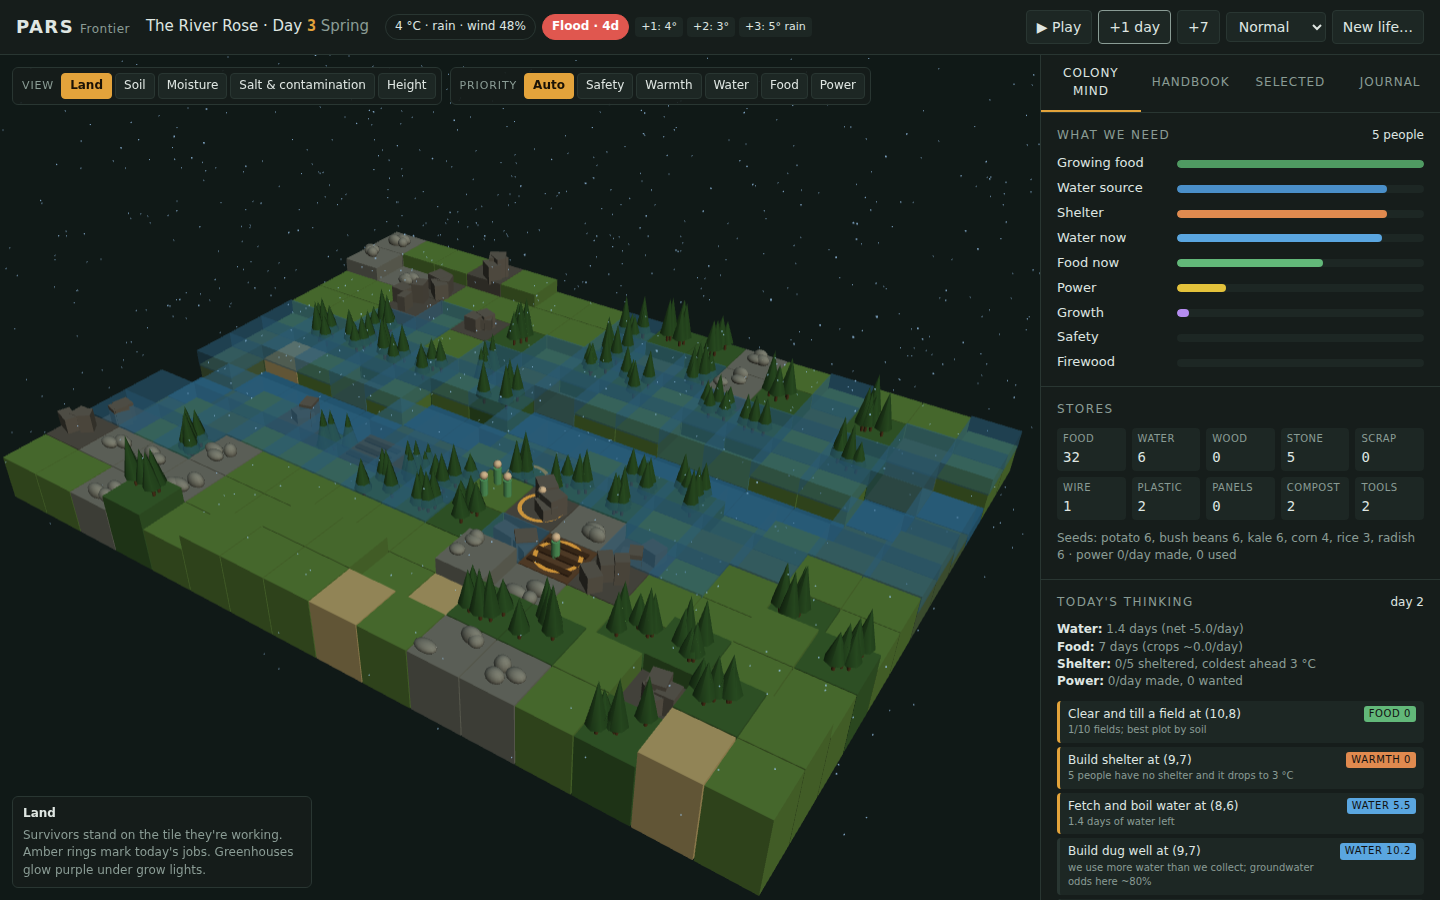
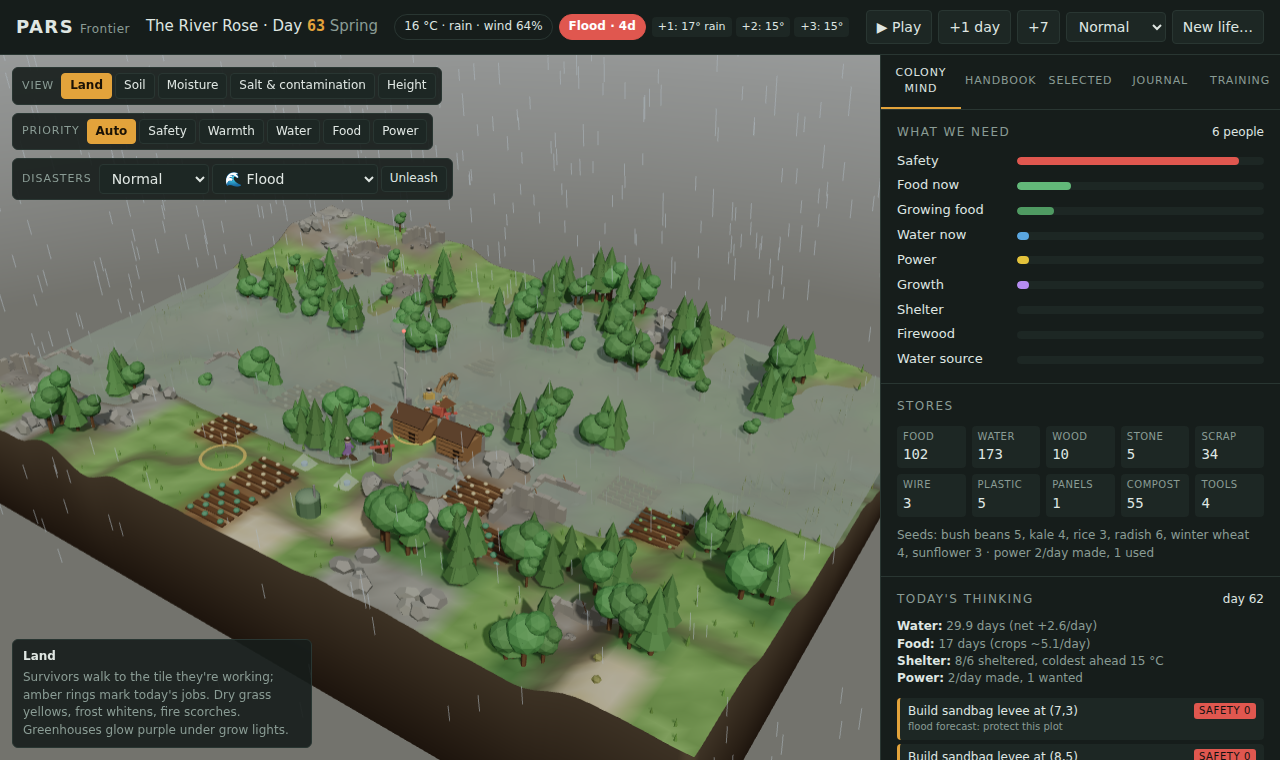
Frontier: learn from flood damage, separate "wrong" from "untested"
- Crops that wilt in floodwater (not only ones that drown) now teach the
  colony they aren't flood-tolerant. In 7 of 12 River Rose games beans were
  flooded and survived damaged; before, the colony learned nothing from it.
  Paired A/B vs. the previous commit: -0.24 +/- 0.25 points/year over 200
  games (neutral).
- Accuracy now marks each fact as tested only when the colony had evidence
  that could reveal it (temperatures below the limit, a flood over the crop,
  enough wells/catches for the tolerance to be reachable, a lesson's trigger).
  Of tested facts 88-100% are right after one year; most facts stay
  untested within a year because the event never happened.
- Forage truth in the metric uses whole portions (what a day actually
  brings in) and allows for sand anywhere, not only in the desert.
- Handbook panel shows untested facts as "?" instead of errors.
- New README screenshots of the 3D scene.

Claude-Session: https://claude.ai/code/session_019JzwvXus7sFHV1iJCwQFP5

diff --git a/pars/web/static/frontier-engine.js b/pars/web/static/frontier-engine.js
@@ -244,6 +244,7 @@
       if (this.sc.opening) {
         const o = this.sc.opening;
         this.disaster = { type: o.type, daysLeft: o.days, level: o.level || 2 };
+        this.lived = { [o.type]: true };
         this.note("event", `${DISASTERS[o.type].name}: ${DISASTERS[o.type].desc}`);
       }
       this.dirtyWaterDay = -99;
@@ -352,6 +353,7 @@
     startDisaster(type, forced = false) {
       const d = DISASTERS[type];
       this.disaster = { type, daysLeft: this.R.randint(d.days[0], d.days[1]), level: this.R.randint(1, 3), forced, startDay: this.day };
+      (this.lived = this.lived || {})[type] = true;
       this.note("event", `${d.name} begins: ${d.desc}`);
       if (type === "earthquake") this.quake(1);
       if (type === "wildfire") {
@@ -551,12 +553,17 @@
         const truth = CROPS[crop.type], belief = this.beliefs.crops[crop.type];
         const temp = this.cropTemp(t, w.temp);
         crop.age++;
+        // what this crop has been exposed to (to tell "untested" from "wrong")
+        belief.lowT = Math.min(belief.lowT ?? 99, temp);
+        if (t.flood > 0) belief.wet = true;
         // frost kill
         if (temp <= truth.frostKill) { this.cropDies(t, "frost", temp); continue; }
         // drowning
         if (t.flood > 0 && !truth.flood) {
           crop.health -= 0.25 * t.flood;
           if (crop.health <= 0) { this.cropDies(t, "flood"); continue; }
+          // it doesn't have to die for us to see it suffering
+          if (belief.flood && crop.health < 0.6) { belief.flood = false; this.learn(crop.type, `${truth.name} wilts in standing floodwater (the handbook was wrong).`); }
         }
         if (t.flood > 0 && truth.flood && belief.flood !== true) { belief.flood = true; this.learn(crop.type, `${truth.name} survived standing floodwater.`); }
         const light = (t.lights && t.powered) ? 1 : (t.greenhouse ? 0.9 : 1) * clamp(w.sun * 1.3, 0.15, 1);
@@ -1149,32 +1156,42 @@
     }
     knowledgeAccuracy() {
       const facts = [];
-      const fact = (group, name, ok, belief, truth) => facts.push({ group, name, ok: !!ok, belief, truth });
+      // "tested": the colony has had some experience that bears on the fact
+      // (planted the crop, dug at that height, lived through the disaster);
+      // an untested fact can only be right if the handbook happened to be
+      const fact = (group, name, ok, belief, truth, tested) => facts.push({ group, name, ok: !!ok, belief, truth, tested: !!tested });
+      const lived = this.lived || {};
       // crops the colony has or has grown
       for (const [id, b] of Object.entries(this.beliefs.crops)) {
         if (!((this.seeds[id] || 0) > 0 || b.planted)) continue;
         const t = CROPS[id];
-        fact("crops", `${t.name}: grows above`, Math.abs(b.minT - t.minT) <= 1, `${b.minT} °C`, `${t.minT} °C`);
-        fact("crops", `${t.name}: frost kills at`, Math.abs(b.frostKill - t.frostKill) <= 1.5, `${b.frostKill} °C`, `${t.frostKill} °C`);
-        fact("crops", `${t.name}: survives floods`, b.flood === t.flood, b.flood ? "yes" : "no", t.flood ? "yes" : "no");
+        fact("crops", `${t.name}: grows above`, Math.abs(b.minT - t.minT) <= 1, `${b.minT} °C`, `${t.minT} °C`, (b.lowT ?? 99) < t.minT);
+        fact("crops", `${t.name}: frost kills at`, Math.abs(b.frostKill - t.frostKill) <= 1.5, `${b.frostKill} °C`, `${t.frostKill} °C`, (b.lowT ?? 99) <= Math.max(t.frostKill, b.frostKill));
+        fact("crops", `${t.name}: survives floods`, b.flood === t.flood, b.flood ? "yes" : "no", t.flood ? "yes" : "no", b.wet);
       }
       // wells at the heights that exist here
       if (!this.sc.terrain.sterile) {
         const elevs = [...new Set(this.tiles.filter((t) => this.isLand(t)).map((t) => t.elev))].sort();
         for (const e of elevs) {
           const w = this.beliefs.tech.well.byElev[e], bel = w.ok / (w.ok + w.fail), tru = this.trueWellChance(e);
-          fact("wells", `Well at height ${e} strikes water`, Math.abs(bel - tru) <= 0.15, `${Math.round(bel * 100)}%`, `${Math.round(tru * 100)}%`);
+          const r = this.beliefs.tech.well.real;
+          fact("wells", `Well at height ${e} strikes water`, Math.abs(bel - tru) <= 0.15, `${Math.round(bel * 100)}%`, `${Math.round(tru * 100)}%`, r && r[e].ok + r[e].fail >= 4);
         }
       }
       // gathering yields that apply here
       const Y = this.beliefs.yields;
-      const yf = (key, truth, tol) => fact("yields", YIELD_LABEL[key], Math.abs(Y[key].m - truth) <= tol, Y[key].m.toFixed(2), truth.toFixed(2));
+      // enough tries that an honest average would land within the tolerance
+      const enough = (key, truth, tol) => { const y = Y[key], n = y.seen || 0; if (n < 2) return false;
+        const v = truth < 1 ? truth * (1 - truth) : (y.M2 || 0) / (n - 1); return 2 * Math.sqrt(v / n) <= tol; };
+      const yf = (key, truth, tol) => fact("yields", YIELD_LABEL[key], Math.abs(Y[key].m - truth) <= tol, Y[key].m.toFixed(2), truth.toFixed(2), enough(key, truth, tol));
       if (!this.sc.noWildFood) {
-        // in the desert the nearest spot may be sand (half yield) or oasis grass
-        const lo = this.scenarioId === "dry_country" ? 0.5 : 1;
-        for (const [sea, base] of [["Spring", 2.5], ["Summer", 2.5], ["Autumn", 4], ["Winter", 1]]) {
-          const m = Y[`forage_${sea}`].m, tol = Math.max(0.5, base * 0.25);
-          fact("yields", YIELD_LABEL[`forage_${sea}`], m >= base * lo - tol && m <= base + tol, m.toFixed(2), lo < 1 ? `${(base * lo).toFixed(2)}–${base.toFixed(2)}` : base.toFixed(2));
+        // where there's sand the nearest spot may be sand (half yield) or grass
+        const lo = this.tiles.some((t) => t.type === "sand") ? 0.5 : 1;
+        // what a day's foraging actually brings in (whole portions) at skill 1
+        for (const [sea, raw] of [["Spring", 2.5], ["Summer", 2.5], ["Autumn", 4], ["Winter", 1]]) {
+          const hi = Math.round(raw), low = lo < 1 ? Math.round(raw * lo) : hi;
+          const m = Y[`forage_${sea}`].m, tol = Math.max(0.5, hi * 0.25);
+          fact("yields", YIELD_LABEL[`forage_${sea}`], m >= low - tol && m <= hi + tol, m.toFixed(2), low < hi ? `${low.toFixed(2)}–${hi.toFixed(2)}` : hi.toFixed(2), enough(`forage_${sea}`, hi, tol));
         }
       }
       if (this.sc.terrain.river) yf("fish_river", 2, 0.5);
@@ -1186,10 +1203,11 @@
       // disaster lessons for disasters that can strike here
       const LES = { boilWater: "outbreak", fireAware: "wildfire", quakeWait: "earthquake", mixCrops: "blight", ashFertile: "wildfire" };
       const LNAME = { boilWater: "Unboiled water spreads fever", fireAware: "Firebreaks before dry season", quakeWait: "Wait out aftershocks", mixCrops: "Mix crops against blight", ashFertile: "Ash makes soil fertile" };
-      for (const [k, d] of Object.entries(LES)) if (d in this.sc.disasters && this.canHappen(d)) fact("lessons", LNAME[k], this.beliefs.hazard[k], this.beliefs.hazard[k] ? "known" : "not yet", "true");
-      if (this.sc.terrain.river) fact("lessons", "Flood silt is fertile", this.discoveries.silt, this.discoveries.silt ? "known" : "not yet", "true");
+      for (const [k, d] of Object.entries(LES)) if (d in this.sc.disasters && this.canHappen(d)) fact("lessons", LNAME[k], this.beliefs.hazard[k], this.beliefs.hazard[k] ? "known" : "not yet", "true", this.beliefs.hazard[k]);
+      if (this.sc.terrain.river) fact("lessons", "Flood silt is fertile", this.discoveries.silt, this.discoveries.silt ? "known" : "not yet", "true", this.discoveries.silt);
       const ok = facts.filter((f) => f.ok).length;
-      return { pct: facts.length ? ok / facts.length : 1, ok, total: facts.length, facts };
+      const T = facts.filter((f) => f.tested), tok = T.filter((f) => f.ok).length;
+      return { pct: facts.length ? ok / facts.length : 1, ok, total: facts.length, facts, tested: T.length, testedOk: tok, testedPct: T.length ? tok / T.length : 1 };
     }
     gatherOption(res, amt) {
       const T = this.tiles.filter((t) => !this.reserved(t) && t.flood === 0);
@@ -1706,7 +1724,7 @@
       },
       discoveries: { ...f.discoveries },
       hazardBeliefs: { ...f.beliefs.hazard },
-      accuracy: (() => { const a = f.knowledgeAccuracy(); return { pct: a.pct, ok: a.ok, total: a.total, facts: a.facts }; })(),
+      accuracy: (() => { const a = f.knowledgeAccuracy(); return a; })(),
       accuracyLog: (f.accuracyLog || []).slice(),
       startAccuracy: f.startAccuracy,
       yieldBook: Object.fromEntries(Object.entries(f.beliefs.yields).map(([k, b]) => [k, { label: YIELD_LABEL[k], belief: Math.round(b.m * 100) / 100, handbook: HANDBOOK_YIELDS[k], seen: b.seen || 0 }])),

diff --git a/pars/web/static/frontier.html b/pars/web/static/frontier.html
@@ -1107,11 +1107,12 @@ function renderAccuracy(s) {
   const GN = { crops: "Crops", wells: "Wells", yields: "Gathering", lessons: "Disaster lessons" };
   $("accuracy").innerHTML = `<div style="display:flex;align-items:baseline;gap:10px"><b style="font-size:22px;color:var(--ink)">${Math.round(a.pct * 100)}%</b>
       <span class="muted">${a.ok} of ${a.total} facts right · started at ${Math.round(s.startAccuracy)}% with only the handbook</span></div>
+    <div class="muted">Of the ${a.tested} facts they have real evidence for, <b style="color:var(--ink)">${a.tested ? Math.round(a.testedPct * 100) : "–"}%</b> are right. The rest can only be learned when it happens: a frost, a flood, enough wells dug.</div>
     <svg viewBox="0 0 ${w} ${h}" style="width:100%;height:60px;background:rgba(255,255,255,.03);border-radius:6px" preserveAspectRatio="none">
       <line x1="0" x2="${w}" y1="${h - s.startAccuracy / 100 * h}" y2="${h - s.startAccuracy / 100 * h}" stroke="#666" stroke-dasharray="3 3"/>
       <polyline points="${pts}" fill="none" stroke="var(--learn)" stroke-width="2" vector-effect="non-scaling-stroke"/></svg>
-    ${Object.entries(groups).map(([g, fs]) => `<details><summary><b>${GN[g] || g}</b> <span class="muted">${fs.filter((f) => f.ok).length}/${fs.length} right</span></summary>
-      <table style="width:100%;border-collapse:collapse;margin-top:4px">${fs.map((f) => `<tr><td style="padding:2px 0">${f.ok ? "<span class='ok'>✓</span>" : "<span style='color:var(--bad)'>✗</span>"} ${esc(f.name)}</td>
+    ${Object.entries(groups).map(([g, fs]) => `<details><summary><b>${GN[g] || g}</b> <span class="muted">${fs.filter((f) => f.ok).length}/${fs.length} right${fs.some((f) => !f.tested) ? ` · ${fs.filter((f) => !f.tested).length} not tested yet` : ""}</span></summary>
+      <table style="width:100%;border-collapse:collapse;margin-top:4px">${fs.map((f) => `<tr title="${f.tested ? "we have evidence for this" : "not tested yet"}"><td style="padding:2px 0">${f.ok ? "<span class='ok'>✓</span>" : f.tested ? "<span style='color:var(--bad)'>✗</span>" : "<span class='muted'>?</span>"} ${esc(f.name)}</td>
       <td class="muted" style="text-align:right">we think <b style="color:var(--ink)">${esc(String(f.belief))}</b></td><td class="muted" style="text-align:right;padding-left:8px">truth ${esc(String(f.truth))}</td></tr>`).join("")}</table></details>`).join("")}`;
   const Y = Object.values(s.yieldBook).filter((y) => y.seen > 0);
   $("yieldbook").innerHTML = Y.length ? Y.map((y) => {

diff --git a/tests/test_frontier.py b/tests/test_frontier.py
@@ -200,6 +200,27 @@ def test_colony_beliefs_get_closer_to_the_truth():
         assert r["life4"] > r["life1"], (sc, r)
 
 
+
+def test_facts_backed_by_evidence_are_mostly_right():
+    # "Tested" facts are ones the colony had evidence for (a frost below the
+    # limit, a flood over the crop, enough digs or catches). Those should be
+    # right; untested ones can only be right if the handbook was.
+    res = run("""
+      let tested = 0, ok = 0, untestedLessons = 0;
+      for (const sc of ['river_flood', 'ash_winter', 'after_wave']) for (let s = 0; s < 4; s++) {
+        const f = new F.Frontier({scenario: sc, seed: 900 + s});
+        while (f.running) f.tick();
+        const a = f.knowledgeAccuracy();
+        tested += a.tested; ok += a.testedOk;
+        untestedLessons += a.facts.filter((x) => x.group === 'lessons' && !x.tested && x.ok).length;
+      }
+      console.log(JSON.stringify({tested, ok, untestedLessons}));
+    """)
+    assert res["tested"] >= 10, res
+    assert res["ok"] / res["tested"] >= 0.8, res
+    assert res["untestedLessons"] == 0, res
+
+
 def test_yield_book_learns_from_experience_and_wells_learn_a_rule():
     res = run("""
       const f = new F.Frontier({scenario: 'river_flood', seed: 3});
